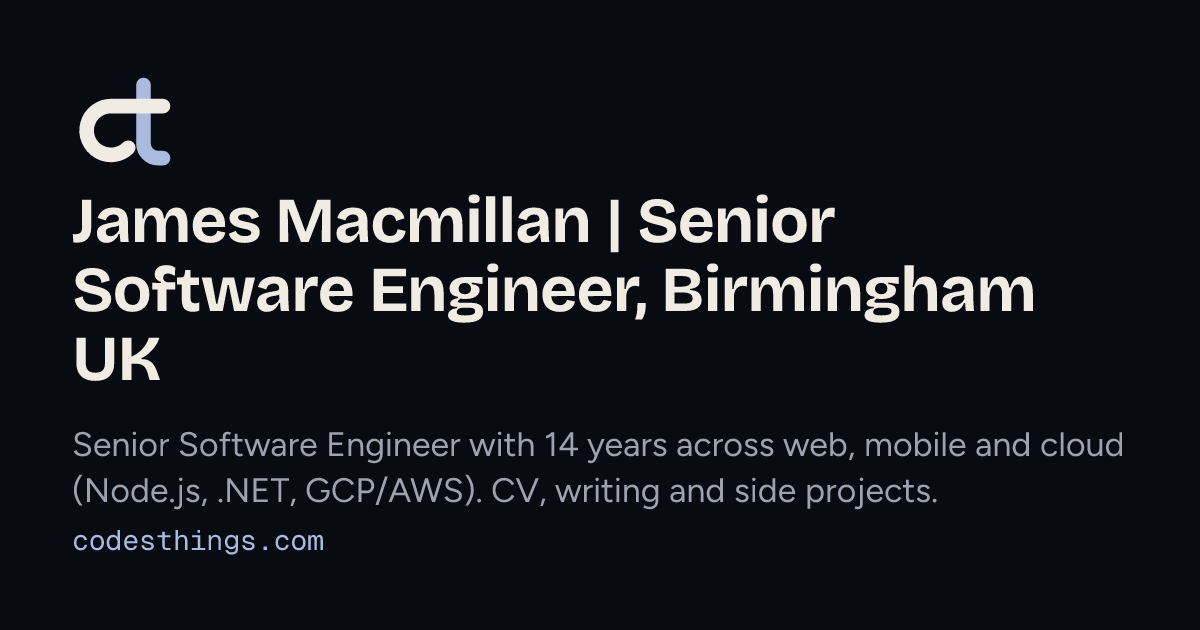
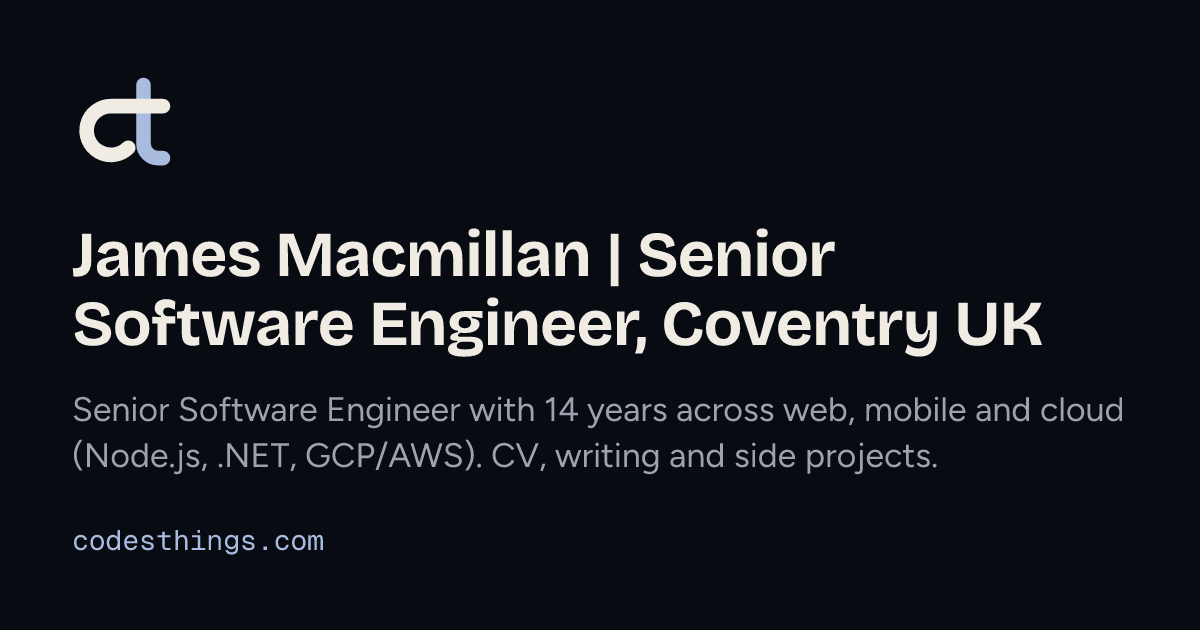
deploy: 5fd1752fc08f379e193a4be1adb7f0b0c33e6fe5

Changed region(s): [[0.0617, 0.3016, 0.8633, 0.6032], [0.0617, 0.6333, 0.9558, 0.8143]]

diff --git a/index.html b/index.html
@@ -11,7 +11,7 @@ Hi. You're reading the source, so we'd get on. The CV is at /cv and the code is 
   <head>
     <meta charset="UTF-8" />
 <meta name="viewport" content="width=device-width, initial-scale=1.0" />
-<title>James Macmillan | Senior Software Engineer, Birmingham UK</title>
+<title>James Macmillan | Senior Software Engineer, Coventry UK</title>
 <meta name="description" content="Senior Software Engineer with 14 years across web, mobile and cloud (Node.js, .NET, GCP/AWS). CV, writing and side projects." />
 <link rel="canonical" href="https://codesthings.com/" />
 <meta name="color-scheme" content="dark light" />
@@ -20,20 +20,20 @@ Hi. You're reading the source, so we'd get on. The CV is at /cv and the code is 
 
 <meta property="og:type" content="website" />
 <meta property="og:site_name" content="codesthings.com" />
-<meta property="og:title" content="James Macmillan | Senior Software Engineer, Birmingham UK" />
+<meta property="og:title" content="James Macmillan | Senior Software Engineer, Coventry UK" />
 <meta property="og:description" content="Senior Software Engineer with 14 years across web, mobile and cloud (Node.js, .NET, GCP/AWS). CV, writing and side projects." />
 <meta property="og:url" content="https://codesthings.com/" />
 <meta property="og:image" content="https://codesthings.com/og/home.png" />
 <meta property="og:image:width" content="1200" />
 <meta property="og:image:height" content="630" />
-<meta property="og:image:alt" content="Share card for James Macmillan | Senior Software Engineer, Birmingham UK" />
+<meta property="og:image:alt" content="Share card for James Macmillan | Senior Software Engineer, Coventry UK" />
 <meta name="twitter:card" content="summary_large_image" />
-<meta name="twitter:title" content="James Macmillan | Senior Software Engineer, Birmingham UK" />
+<meta name="twitter:title" content="James Macmillan | Senior Software Engineer, Coventry UK" />
 <meta name="twitter:description" content="Senior Software Engineer with 14 years across web, mobile and cloud (Node.js, .NET, GCP/AWS). CV, writing and side projects." />
 <meta name="twitter:image" content="https://codesthings.com/og/home.png" />
-<meta name="twitter:image:alt" content="Share card for James Macmillan | Senior Software Engineer, Birmingham UK" />
+<meta name="twitter:image:alt" content="Share card for James Macmillan | Senior Software Engineer, Coventry UK" />
 
-<script type="application/ld+json">{"@context":"https://schema.org","@type":"Person","name":"James Macmillan","jobTitle":"Senior Software Engineer","url":"https://codesthings.com","address":{"@type":"PostalAddress","addressLocality":"Birmingham","addressCountry":"GB"},"sameAs":["https://github.com/jamescodesthings","https://makerworld.com/en/@jamescodesthing","https://www.linkedin.com/in/jamescodesthings","https://www.instagram.com/jamescodesthings/"]}</script>
+<script type="application/ld+json">{"@context":"https://schema.org","@type":"Person","name":"James Macmillan","jobTitle":"Senior Software Engineer","url":"https://codesthings.com","address":{"@type":"PostalAddress","addressLocality":"Coventry","addressCountry":"GB"},"sameAs":["https://github.com/jamescodesthings","https://makerworld.com/en/@jamescodesthing","https://www.linkedin.com/in/jamescodesthings","https://www.instagram.com/jamescodesthings/"]}</script>
 <link rel="icon" href="/assets/favicon.svg" type="image/svg+xml" />
 <link rel="icon" href="/assets/favicon.ico" sizes="32x32" />
 <link rel="apple-touch-icon" href="/assets/apple-touch-icon.png" />
@@ -217,7 +217,7 @@ Hi. You're reading the source, so we'd get on. The CV is at /cv and the code is 
   </svg>
   <div class="home-hero__inner container">
     
-    <p class="status-pill"><span class="status-pill__dot" aria-hidden="true"></span>Available now · Birmingham, UK</p>
+    <p class="status-pill"><span class="status-pill__dot" aria-hidden="true"></span>Available now · Coventry, UK</p>
     
     <h1 class="home-hero__name" id="hero-title">James Macmillan</h1>
     <p class="home-hero__tagline"><span class="home-hero__prompt" aria-hidden="true">&gt;</span> senior software engineer · maker · photographer<span class="home-hero__cursor" aria-hidden="true"></span></p>
@@ -1404,7 +1404,7 @@ Hi. You're reading the source, so we'd get on. The CV is at /cv and the code is 
     <p class="footer-meta">
       <span>&copy; 2026 James Macmillan</span>
       
-      <a href="https://github.com/jamescodesthings/jamescodesthings.github.io/commit/d52ec6004e468f8dd7b6e7ec6b6ab38d059d26c2" rel="noopener">vd52ec60 &middot; built 12 Oct 2026</a>
+      <a href="https://github.com/jamescodesthings/jamescodesthings.github.io/commit/5fd1752fc08f379e193a4be1adb7f0b0c33e6fe5" rel="noopener">v5fd1752 &middot; built 13 Oct 2026</a>
       
     </p>
   </div>

diff --git a/about-cookies.html b/about-cookies.html
@@ -382,7 +382,7 @@ Hi. You're reading the source, so we'd get on. The CV is at /cv and the code is 
     <p class="footer-meta">
       <span>&copy; 2026 James Macmillan</span>
       
-      <a href="https://github.com/jamescodesthings/jamescodesthings.github.io/commit/d52ec6004e468f8dd7b6e7ec6b6ab38d059d26c2" rel="noopener">vd52ec60 &middot; built 12 Oct 2026</a>
+      <a href="https://github.com/jamescodesthings/jamescodesthings.github.io/commit/5fd1752fc08f379e193a4be1adb7f0b0c33e6fe5" rel="noopener">v5fd1752 &middot; built 13 Oct 2026</a>
       
     </p>
   </div>

diff --git a/blog/2026-03-30-how-this-site-works.html b/blog/2026-03-30-how-this-site-works.html
@@ -422,7 +422,7 @@ Hi. You're reading the source, so we'd get on. The CV is at /cv and the code is 
     <p class="footer-meta">
       <span>&copy; 2026 James Macmillan</span>
       
-      <a href="https://github.com/jamescodesthings/jamescodesthings.github.io/commit/d52ec6004e468f8dd7b6e7ec6b6ab38d059d26c2" rel="noopener">vd52ec60 &middot; built 12 Oct 2026</a>
+      <a href="https://github.com/jamescodesthings/jamescodesthings.github.io/commit/5fd1752fc08f379e193a4be1adb7f0b0c33e6fe5" rel="noopener">v5fd1752 &middot; built 13 Oct 2026</a>
       
     </p>
   </div>

diff --git a/blog/2026-05-01-zerocalc.html b/blog/2026-05-01-zerocalc.html
@@ -683,7 +683,7 @@ on <a href="https://www.printables.com/model/1399739-picocalc-zero-mod-case" rel
     <p class="footer-meta">
       <span>&copy; 2026 James Macmillan</span>
       
-      <a href="https://github.com/jamescodesthings/jamescodesthings.github.io/commit/d52ec6004e468f8dd7b6e7ec6b6ab38d059d26c2" rel="noopener">vd52ec60 &middot; built 12 Oct 2026</a>
+      <a href="https://github.com/jamescodesthings/jamescodesthings.github.io/commit/5fd1752fc08f379e193a4be1adb7f0b0c33e6fe5" rel="noopener">v5fd1752 &middot; built 13 Oct 2026</a>
       
     </p>
   </div>

diff --git a/blog/2026-10-09-making-my-site-fast.html b/blog/2026-10-09-making-my-site-fast.html
@@ -500,7 +500,7 @@ Hi. You're reading the source, so we'd get on. The CV is at /cv and the code is 
     <p class="footer-meta">
       <span>&copy; 2026 James Macmillan</span>
       
-      <a href="https://github.com/jamescodesthings/jamescodesthings.github.io/commit/d52ec6004e468f8dd7b6e7ec6b6ab38d059d26c2" rel="noopener">vd52ec60 &middot; built 12 Oct 2026</a>
+      <a href="https://github.com/jamescodesthings/jamescodesthings.github.io/commit/5fd1752fc08f379e193a4be1adb7f0b0c33e6fe5" rel="noopener">v5fd1752 &middot; built 13 Oct 2026</a>
       
     </p>
   </div>

diff --git a/blog/index.html b/blog/index.html
@@ -357,7 +357,7 @@ Hi. You're reading the source, so we'd get on. The CV is at /cv and the code is 
     <p class="footer-meta">
       <span>&copy; 2026 James Macmillan</span>
       
-      <a href="https://github.com/jamescodesthings/jamescodesthings.github.io/commit/d52ec6004e468f8dd7b6e7ec6b6ab38d059d26c2" rel="noopener">vd52ec60 &middot; built 12 Oct 2026</a>
+      <a href="https://github.com/jamescodesthings/jamescodesthings.github.io/commit/5fd1752fc08f379e193a4be1adb7f0b0c33e6fe5" rel="noopener">v5fd1752 &middot; built 13 Oct 2026</a>
       
     </p>
   </div>

diff --git a/colophon.html b/colophon.html
@@ -416,7 +416,7 @@ Hi. You're reading the source, so we'd get on. The CV is at /cv and the code is 
     <p class="footer-meta">
       <span>&copy; 2026 James Macmillan</span>
       
-      <a href="https://github.com/jamescodesthings/jamescodesthings.github.io/commit/d52ec6004e468f8dd7b6e7ec6b6ab38d059d26c2" rel="noopener">vd52ec60 &middot; built 12 Oct 2026</a>
+      <a href="https://github.com/jamescodesthings/jamescodesthings.github.io/commit/5fd1752fc08f379e193a4be1adb7f0b0c33e6fe5" rel="noopener">v5fd1752 &middot; built 13 Oct 2026</a>
       
     </p>
   </div>

diff --git a/now.html b/now.html
@@ -329,7 +329,7 @@ Hi. You're reading the source, so we'd get on. The CV is at /cv and the code is 
     <p class="footer-meta">
       <span>&copy; 2026 James Macmillan</span>
       
-      <a href="https://github.com/jamescodesthings/jamescodesthings.github.io/commit/d52ec6004e468f8dd7b6e7ec6b6ab38d059d26c2" rel="noopener">vd52ec60 &middot; built 12 Oct 2026</a>
+      <a href="https://github.com/jamescodesthings/jamescodesthings.github.io/commit/5fd1752fc08f379e193a4be1adb7f0b0c33e6fe5" rel="noopener">v5fd1752 &middot; built 13 Oct 2026</a>
       
     </p>
   </div>

diff --git a/privacy-notice.html b/privacy-notice.html
@@ -383,7 +383,7 @@ Hi. You're reading the source, so we'd get on. The CV is at /cv and the code is 
     <p class="footer-meta">
       <span>&copy; 2026 James Macmillan</span>
       
-      <a href="https://github.com/jamescodesthings/jamescodesthings.github.io/commit/d52ec6004e468f8dd7b6e7ec6b6ab38d059d26c2" rel="noopener">vd52ec60 &middot; built 12 Oct 2026</a>
+      <a href="https://github.com/jamescodesthings/jamescodesthings.github.io/commit/5fd1752fc08f379e193a4be1adb7f0b0c33e6fe5" rel="noopener">v5fd1752 &middot; built 13 Oct 2026</a>
       
     </p>
   </div>

diff --git a/projects/index.html b/projects/index.html
@@ -950,7 +950,7 @@ Hi. You're reading the source, so we'd get on. The CV is at /cv and the code is 
     <p class="footer-meta">
       <span>&copy; 2026 James Macmillan</span>
       
-      <a href="https://github.com/jamescodesthings/jamescodesthings.github.io/commit/d52ec6004e468f8dd7b6e7ec6b6ab38d059d26c2" rel="noopener">vd52ec60 &middot; built 12 Oct 2026</a>
+      <a href="https://github.com/jamescodesthings/jamescodesthings.github.io/commit/5fd1752fc08f379e193a4be1adb7f0b0c33e6fe5" rel="noopener">v5fd1752 &middot; built 13 Oct 2026</a>
       
     </p>
   </div>

diff --git a/uses.html b/uses.html
@@ -360,7 +360,7 @@ Hi. You're reading the source, so we'd get on. The CV is at /cv and the code is 
     <p class="footer-meta">
       <span>&copy; 2026 James Macmillan</span>
       
-      <a href="https://github.com/jamescodesthings/jamescodesthings.github.io/commit/d52ec6004e468f8dd7b6e7ec6b6ab38d059d26c2" rel="noopener">vd52ec60 &middot; built 12 Oct 2026</a>
+      <a href="https://github.com/jamescodesthings/jamescodesthings.github.io/commit/5fd1752fc08f379e193a4be1adb7f0b0c33e6fe5" rel="noopener">v5fd1752 &middot; built 13 Oct 2026</a>
       
     </p>
   </div>

diff --git a/404.html b/404.html
@@ -326,7 +326,7 @@ at Object.&lt;anonymous&gt; (404.html:1:1)</code></pre>
     <p class="footer-meta">
       <span>&copy; 2026 James Macmillan</span>
       
-      <a href="https://github.com/jamescodesthings/jamescodesthings.github.io/commit/d52ec6004e468f8dd7b6e7ec6b6ab38d059d26c2" rel="noopener">vd52ec60 &middot; built 12 Oct 2026</a>
+      <a href="https://github.com/jamescodesthings/jamescodesthings.github.io/commit/5fd1752fc08f379e193a4be1adb7f0b0c33e6fe5" rel="noopener">v5fd1752 &middot; built 13 Oct 2026</a>
       
     </p>
   </div>
